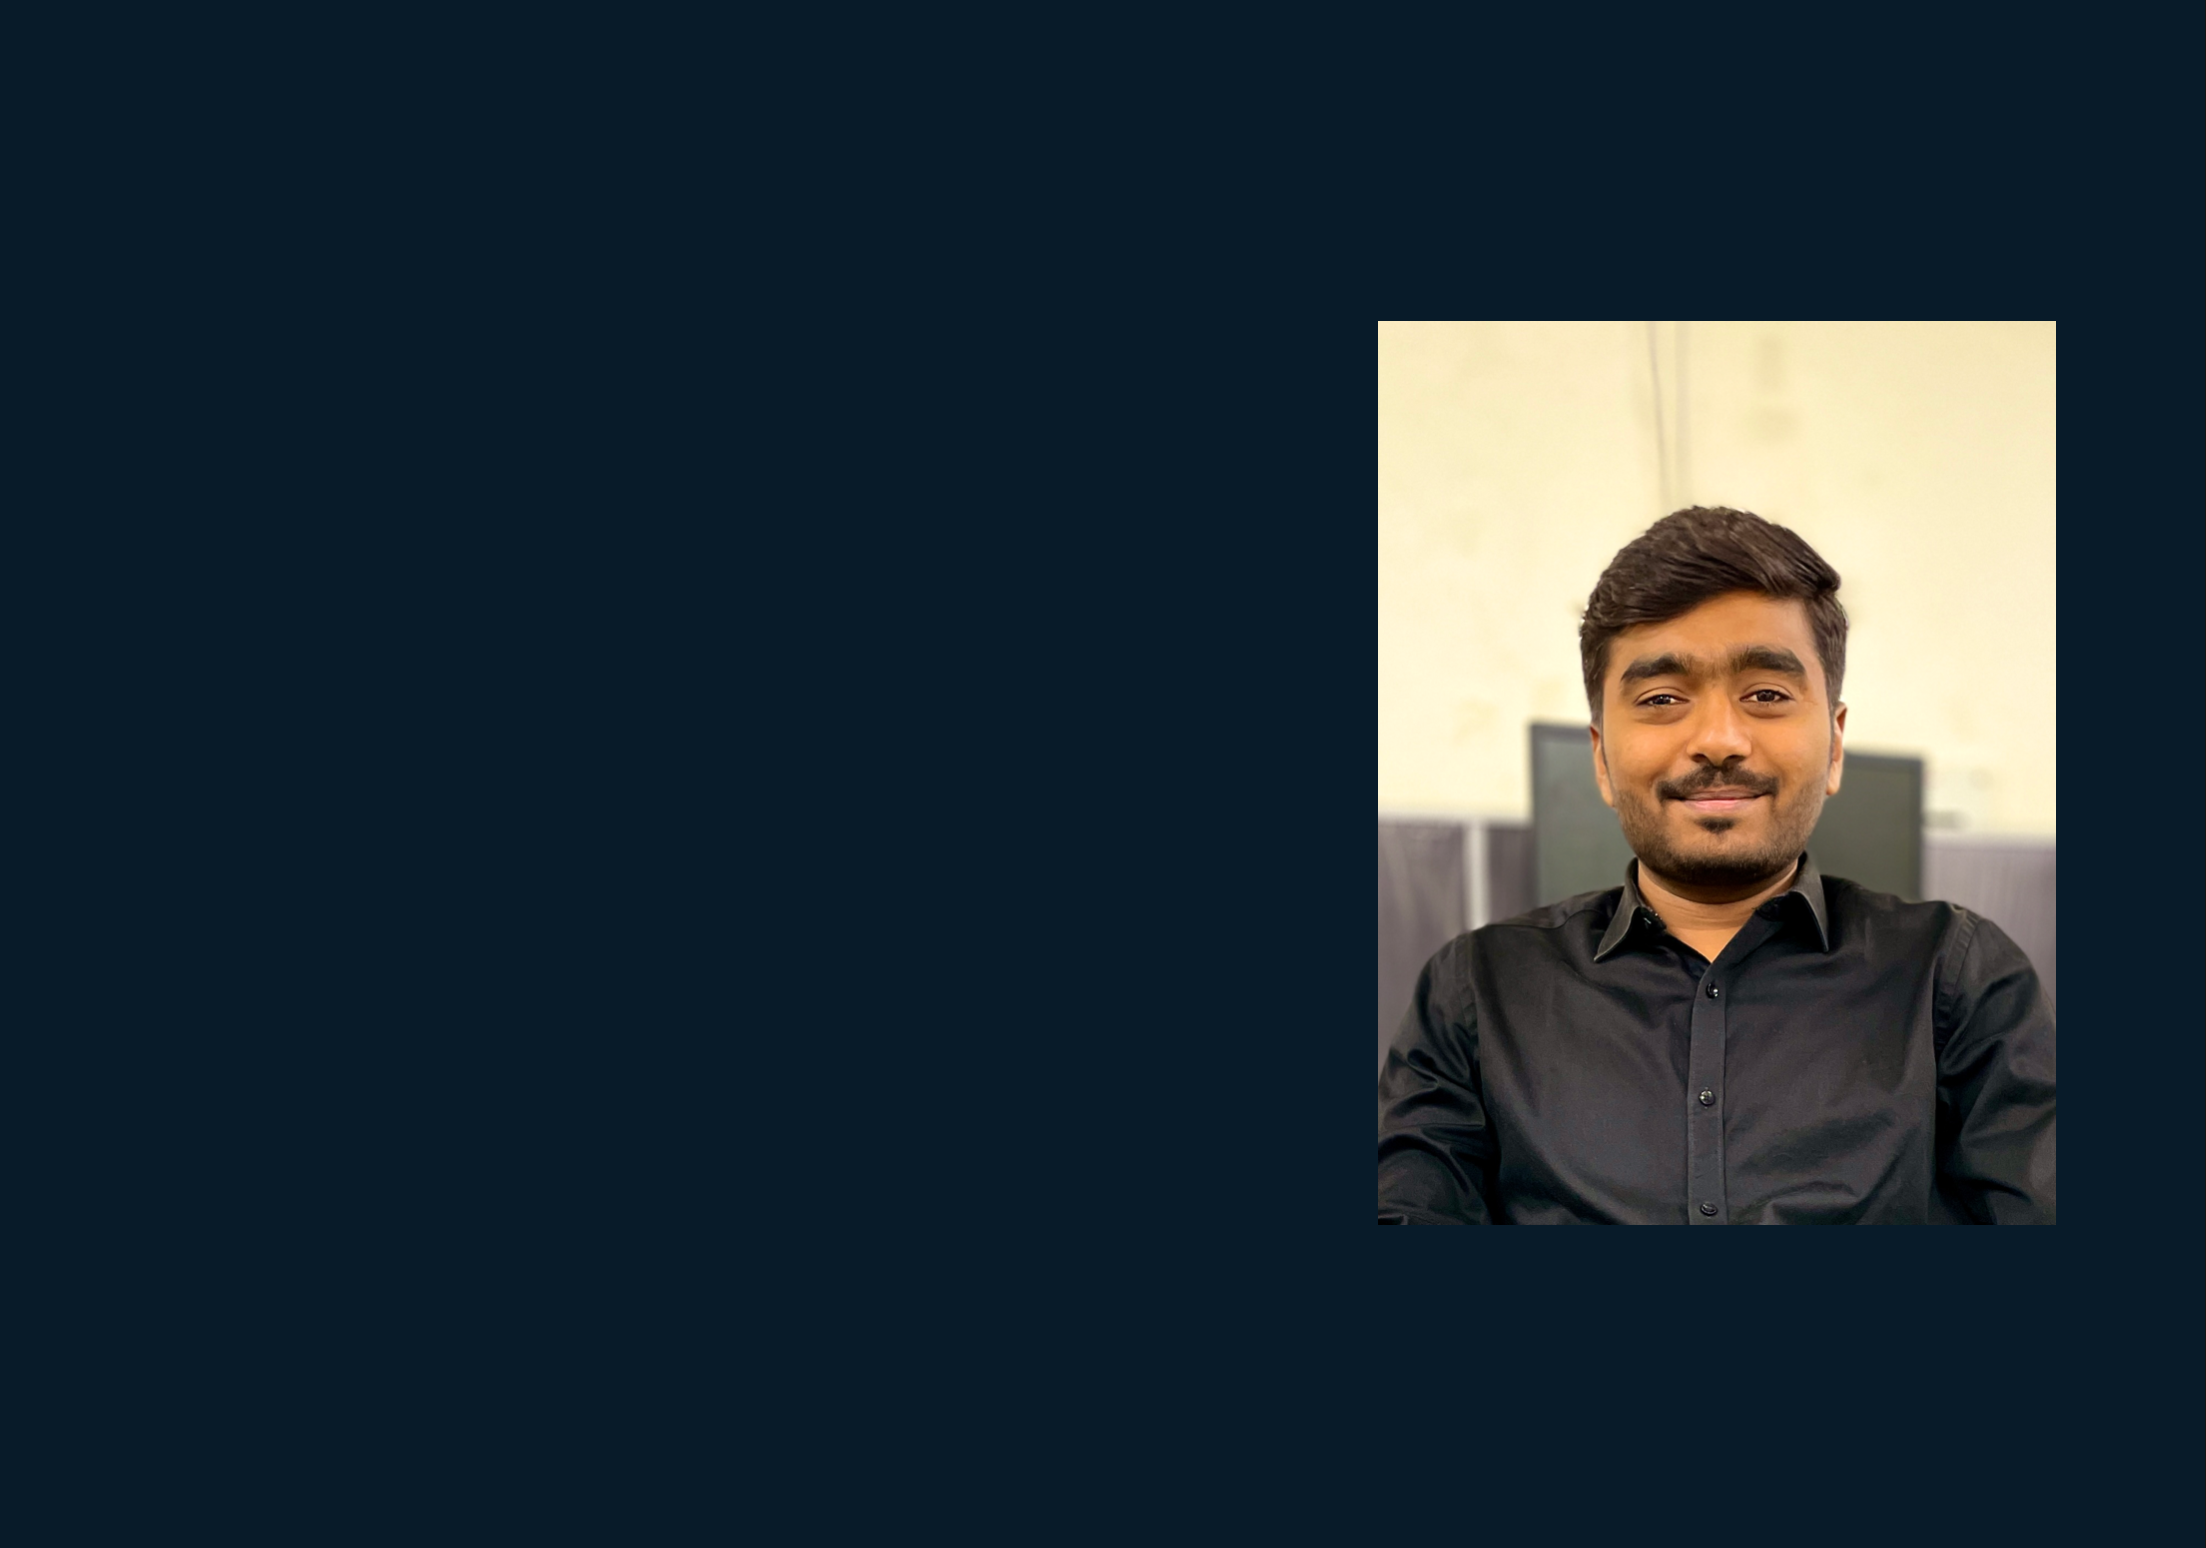
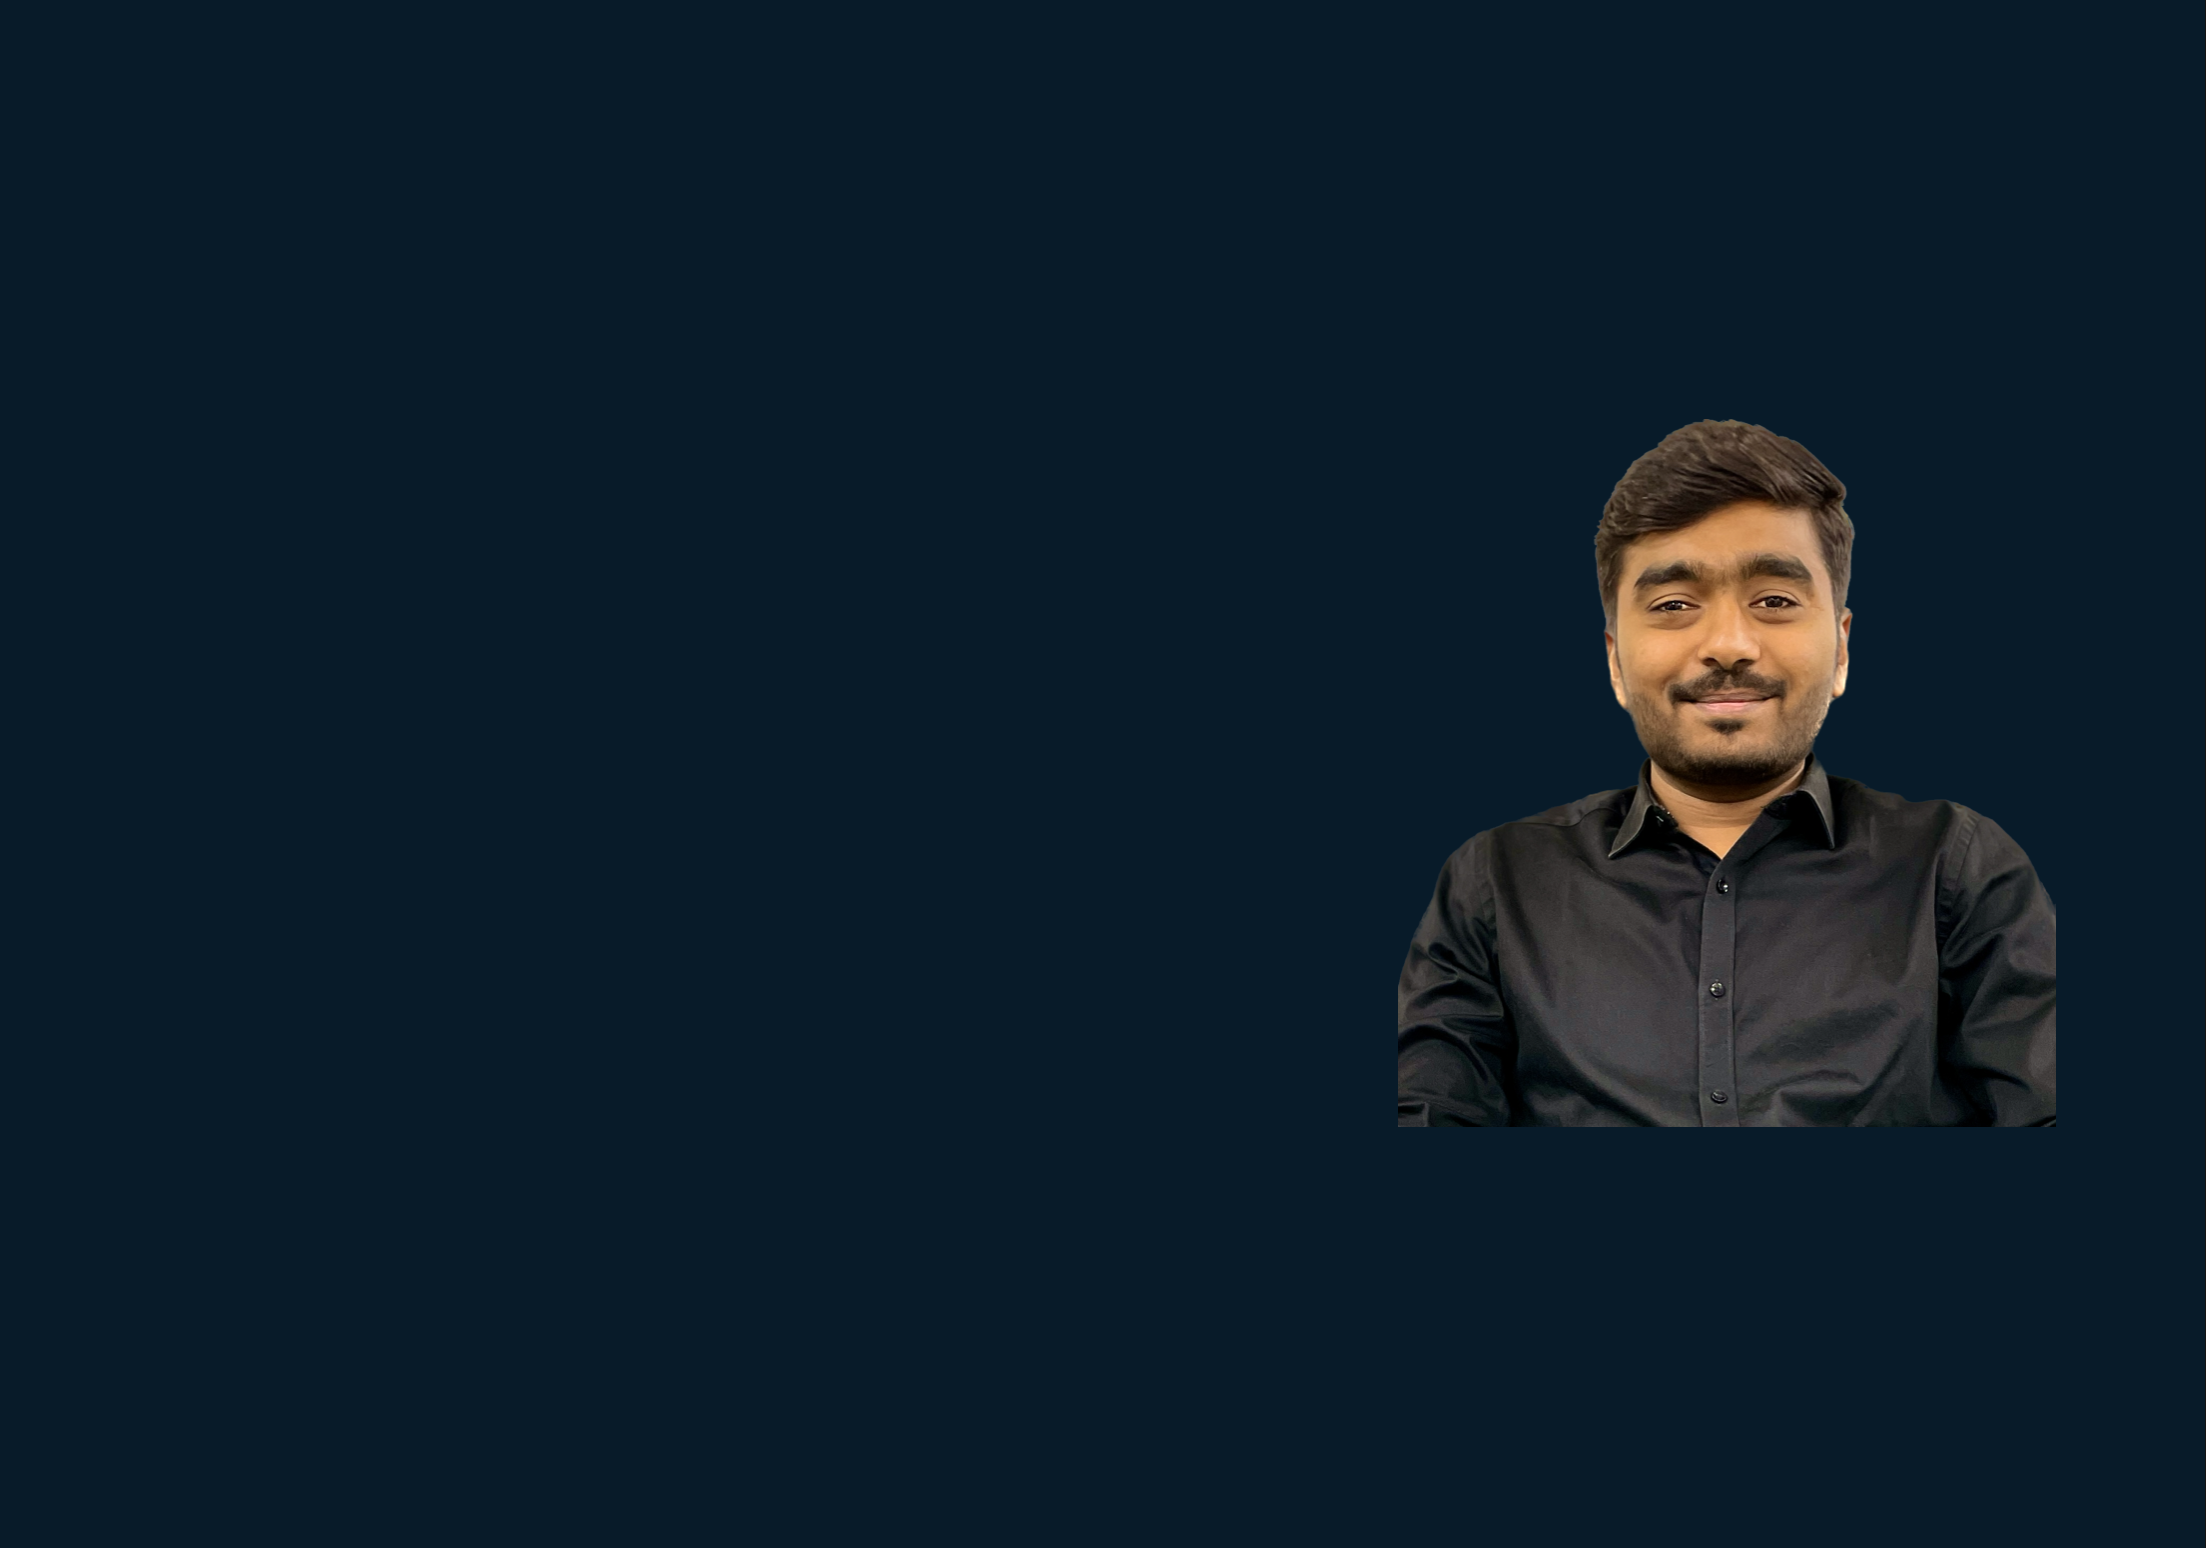
Adding image to home page

Changed region(s): [[0.6165, 0.186, 0.9556, 0.8062]]

diff --git a/styles.css b/styles.css
@@ -76,6 +76,9 @@ section {
     display: flex;
     align-items: center;
     padding: 0 9%;
+    background: url('/images/home.png') no-repeat;
+    background-size: cover;
+    background-position: center;
 }
 
 .home-content {
@@ -208,4 +211,19 @@ section {
 
 .home-sci a:hover::before {
     width: 100%;
+}
+
+.home-imgHover {
+    position: absolute;
+    top: 0;
+    right: 0;
+    width: 45%;
+    height: 100%;
+    background: transparent;
+    transition: 3s;
+}
+
+.home-imgHover:hover {
+    background: var(--bg-color);
+    opacity: .8;
 }

diff --git a/index.html b/index.html
@@ -51,6 +51,10 @@
         <a href="#"><i class="bx bxl-github"></i></a>
         <a href="#"><i class="bx bxl-instagram"></i></a>
       </div>
+
+      <div class="home-imgHover">
+        
+      </div>
     </section>
   </body>
 </html>
